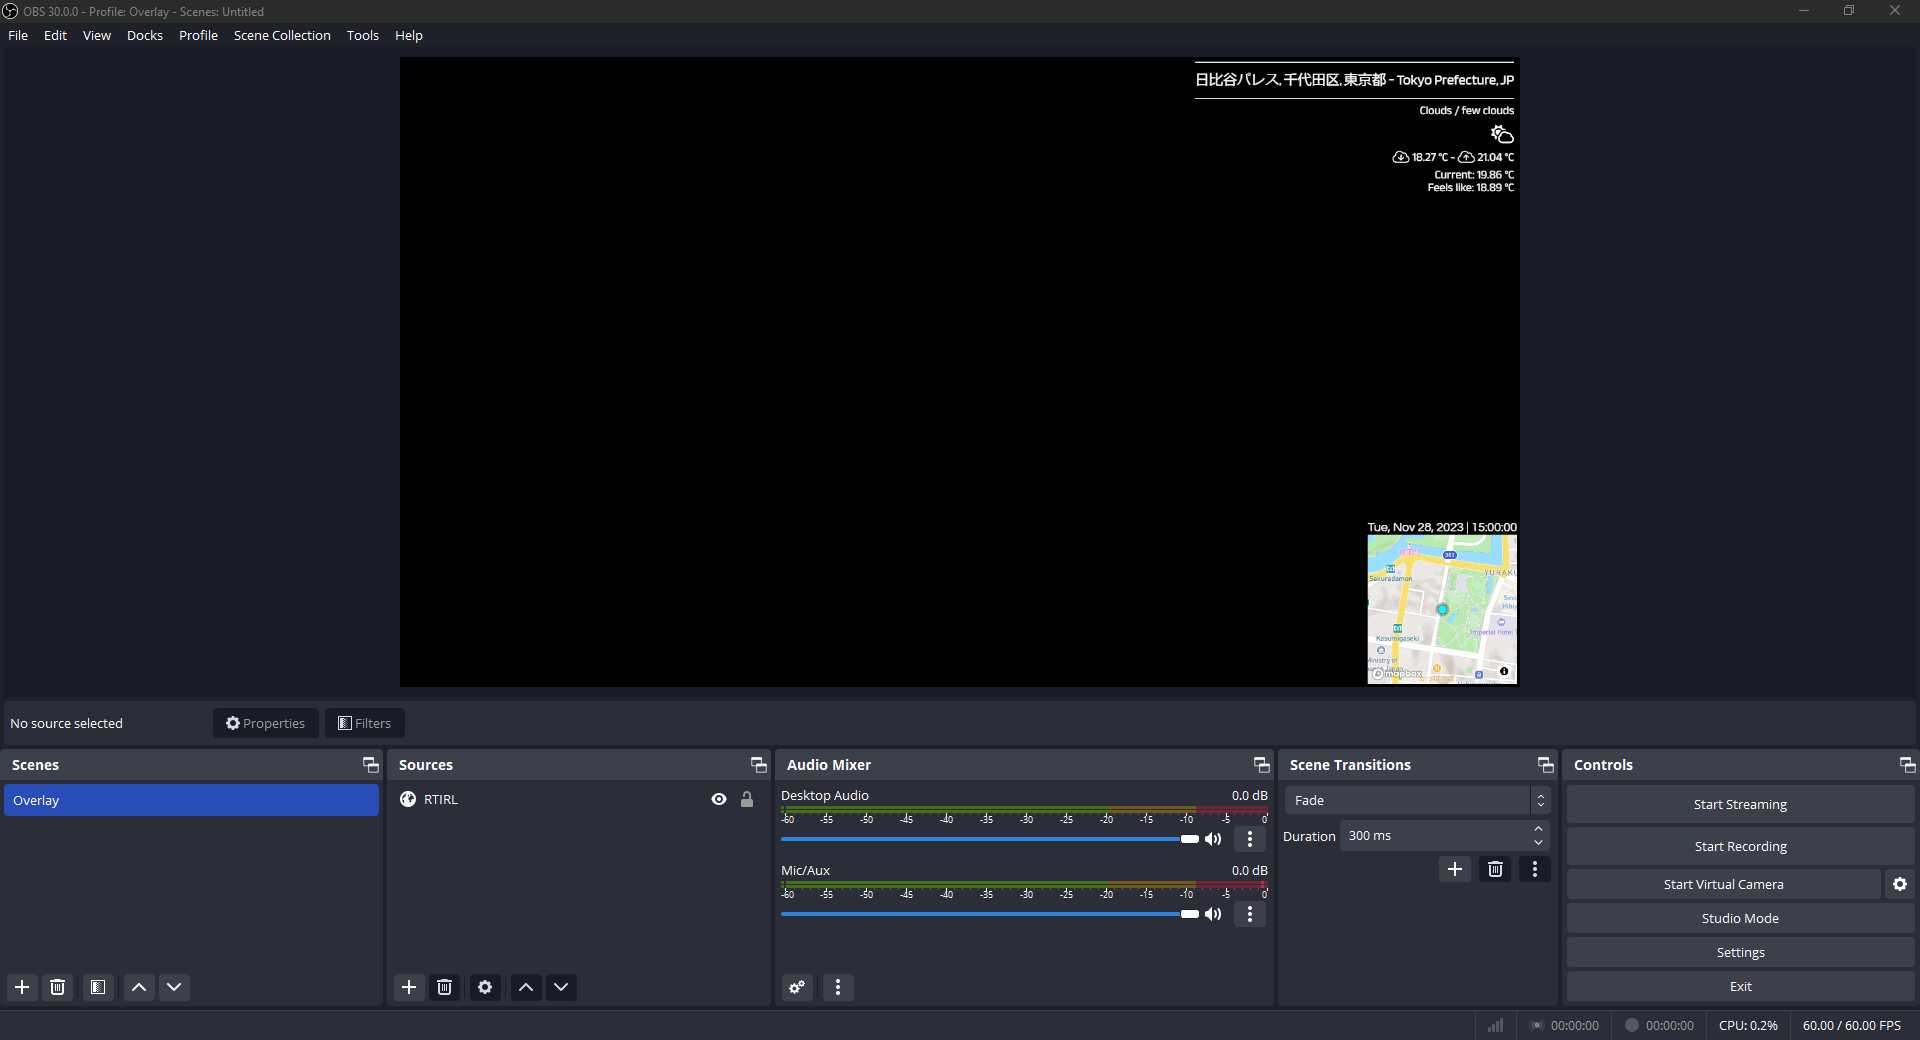
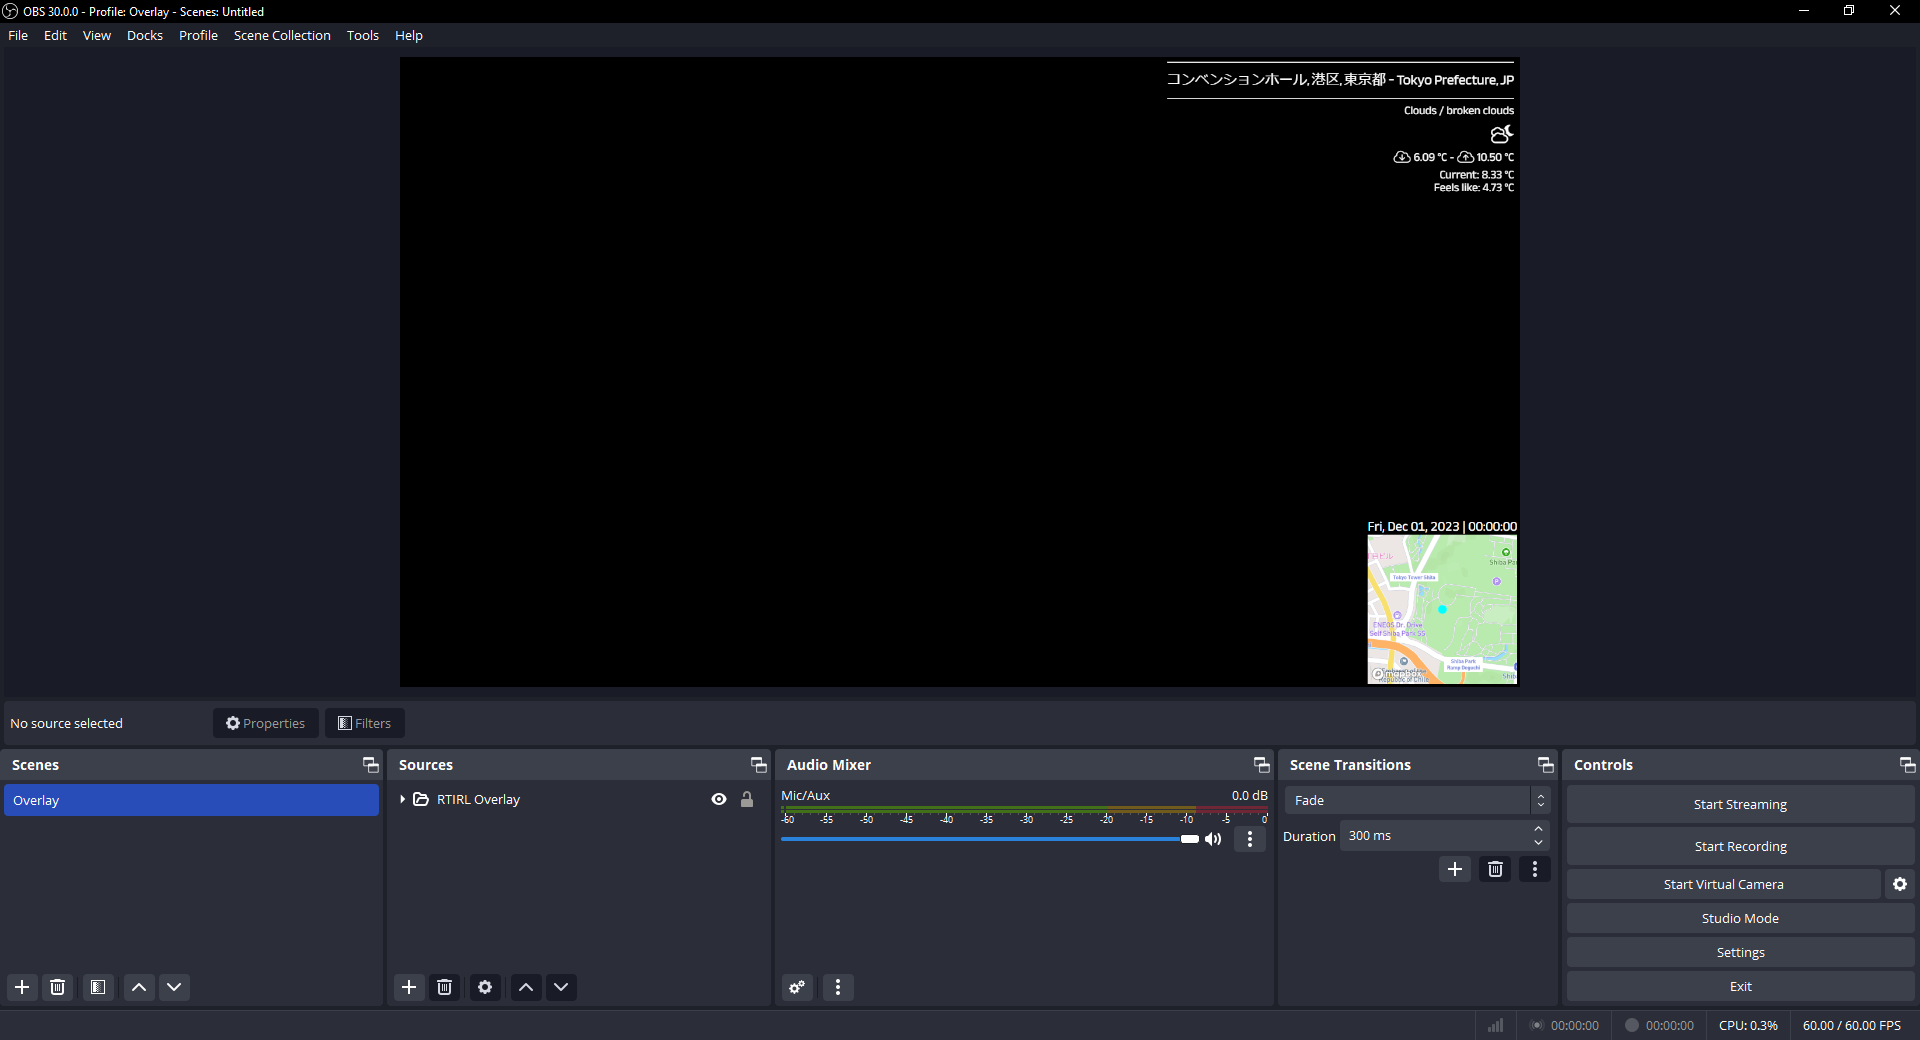
bugfix
update font

update

fix readme

fix time font - switch to anek, use tnums

update

diff --git a/src/components/Map/Map.tsx b/src/components/Map/Map.tsx
@@ -29,7 +29,8 @@ const Map = () => {
   mapboxgl.accessToken = mapboxKey;
 
   useEffect(() => {
-    if (mapContainer.current && !map3D) {
+    if (mapContainer.current) {
+      mapContainer.current.innerHTML = '';
       const map = new mapboxgl.Map({
         style: theme,
         center: [location.longitude, location.latitude],
@@ -94,7 +95,6 @@ const Map = () => {
       };
 
       map.on('load', () => {
-        map.removeLayer('mapboxgl-control-container')
         map.addImage('pulsing-dot', pulsingDot, { pixelRatio: 2 });
 
         map.addSource('dot-point', {
@@ -163,7 +163,7 @@ const Map = () => {
       map3D?.remove();
       setMap3D(null)
     };
-  }, [theme, heading, mapZoom]); // eslint-disable-line react-hooks/exhaustive-deps
+  }, [theme]); // eslint-disable-line react-hooks/exhaustive-deps
 
   useEffect(() => {
     if (map3D) {
@@ -173,7 +173,7 @@ const Map = () => {
         bearing: mapFollowsHeading ? heading : 0,
       });
     }
-  }, [location, heading, mapZoom, map3D]); // eslint-disable-line react-hooks/exhaustive-deps
+  }, [location, heading, mapZoom]); // eslint-disable-line react-hooks/exhaustive-deps
 
   return (
     <div className="map-container">

diff --git a/src/store/flagStore.ts b/src/store/flagStore.ts
@@ -6,6 +6,10 @@ const getQueryParamFlag = (key) => {
   return queryParams.has(key.toLowerCase()) || queryParams.has(key.toUpperCase()) || queryParams.has(key);
 };
 
+const parseZoomLevels = (zoomLevelsString) => {
+  return zoomLevelsString.split(',').filter(pair => pair.includes('-'));
+};
+
 const flagStore = observable({
   disableAnimation: getQueryParamFlag('disableAnimation'),
   hideMap: getQueryParamFlag('hideMap'),
@@ -24,10 +28,12 @@ const flagStore = observable({
   showMetrics: getQueryParamFlag('showMetrics'),
   showSpeed: getQueryParamFlag('showSpeed'),
   splitDateTime: getQueryParamFlag('splitDateTime'),
+  streamElementsSubscribed: false,
   theme: queryParams.get('theme') || 'mapbox://styles/mapbox/streets-v12',
   timeAtBottom: getQueryParamFlag('timeAtBottom'),
   useImperial: getQueryParamFlag('useImperial'),
   zoomLevels: queryParams.get('zoomLevels') || '',
+  zoomLevelPairs: parseZoomLevels(queryParams.get('zoomLevels') || ''),
 });
 
 export default flagStore;

diff --git a/src/components/DateTime/DateTime.scss b/src/components/DateTime/DateTime.scss
@@ -3,9 +3,13 @@
   justify-content: center;
   text-align: center;
   width: 100%;
-  font-family: 'Questrial', sans-serif;
+  font-family: 'Anek Latin', sans-serif;
   font-size: 20px;
   color: #ffffff;
   text-shadow: -1px -1px 0 #000, 1px -1px 0 #000, -1px 1px 0 #000, 1px 1px 0 #000;
   padding-block: 2px;
+
+  .time {
+    font-feature-settings: 'tnum';
+  }
 }

diff --git a/src/components/Metrics/Metrics.scss b/src/components/Metrics/Metrics.scss
@@ -1,7 +1,7 @@
 .metrics-container {
   bottom: 8px;
   color: #ffffff;
-  font-family: 'Roboto', sans-serif;
+  font-family: 'Anek Latin', sans-serif;
   font-size: 18px;
   height: fit-content;
   margin-bottom: -5px;

diff --git a/README.md b/README.md
@@ -335,4 +335,4 @@ const map = new mapboxgl.Map({
 
 ***Example output with `theme=mapbox-dark`, `metrics` options and `mapIs3d` enabled:***
 
-![](docs/default.png)
+![](docs/styled.png)
